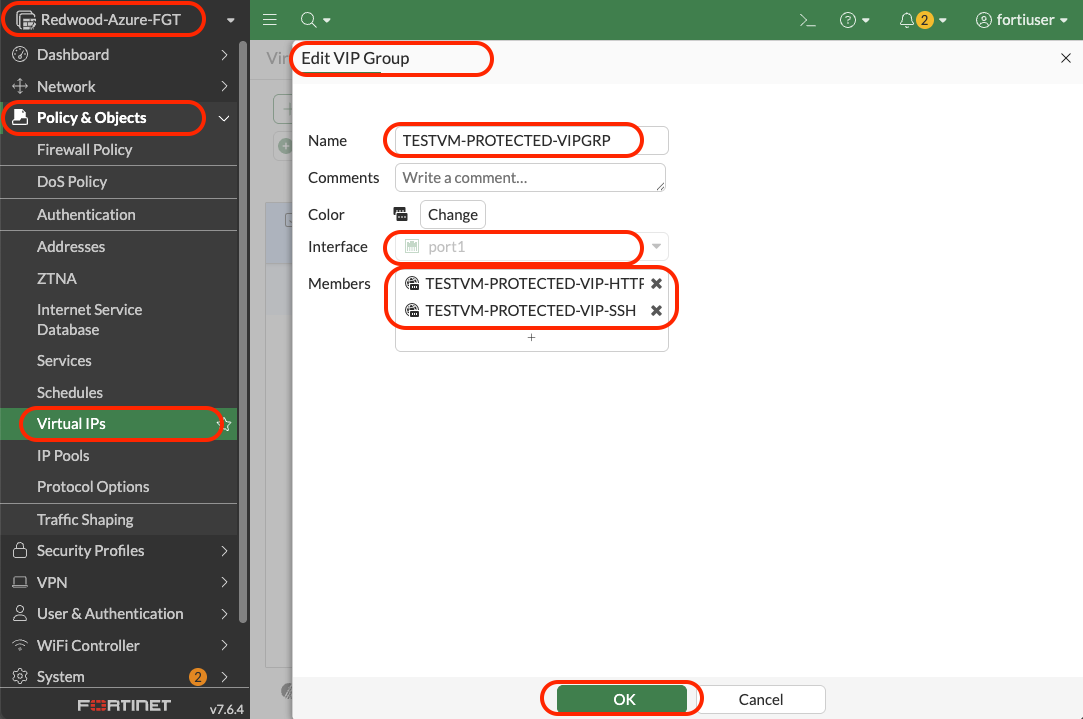
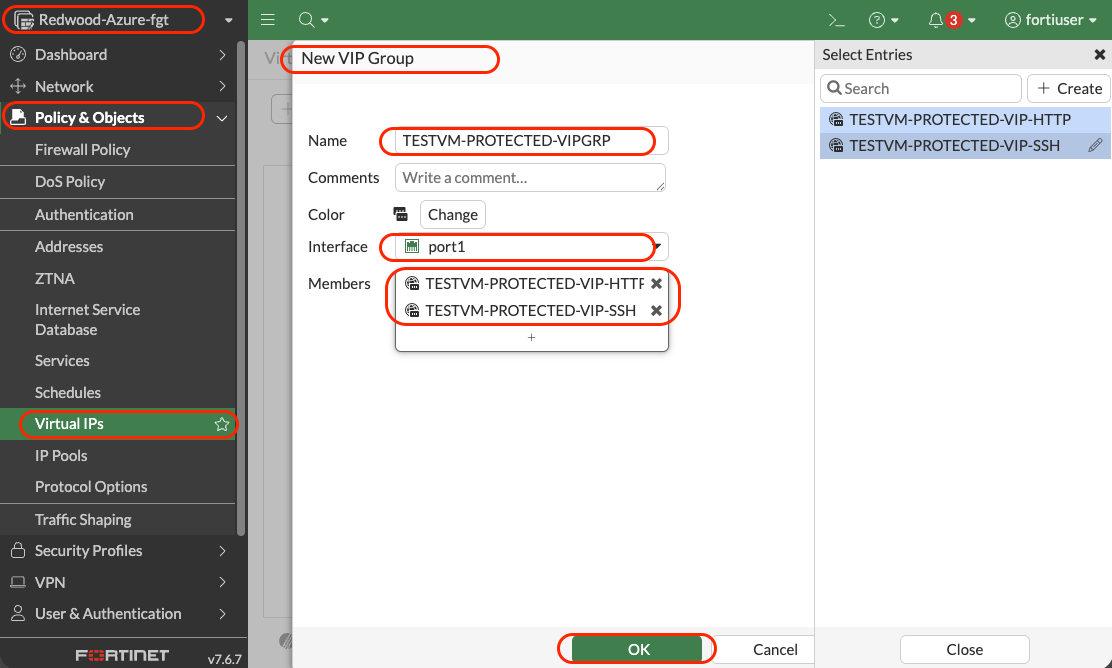
Lab 3 update

diff --git a/az-101-lab3/README.md b/az-101-lab3/README.md
@@ -119,6 +119,7 @@ We need a VM in Protected-Subnet to generate traffic and test FortiGate inspecti
    - In the **New Virtual IP** tab:
      - **Name**: `TESTVM-PROTECTED-VIP-SSH`
      - **Interface**: `port1`
+     - **Type**: `Static NAT`
      - **External IP address/range**: 0.0.0.0
      - Map to
        - **IPv4 address/range**: Select the `TESTVM-PROTECTED` from the Suggestions
@@ -136,6 +137,7 @@ We need a VM in Protected-Subnet to generate traffic and test FortiGate inspecti
    - In the **New Virtual IP** tab:
      - **Name**: `TESTVM-PROTECTED-VIP-HTTP`
      - **Interface**: `port1`
+     - **Type**: `Static NAT`
      - **External IP address/range**: 0.0.0.0
      - Map to
        - **IPv4 address/range**: Select the `TESTVM-PROTECTED` from the Suggestions
@@ -174,6 +176,7 @@ We need a VM in Protected-Subnet to generate traffic and test FortiGate inspecti
      - **Source**: `all`
      - **Destination**: `TESTVM-PROTECTED-VIPGRP`
      - **Service**: `SSH` and `HTTP`
+     - **NAT**: `Enabled`
 
      ![step2.3.1.a-screenshot](images/step2.3.1.a-creenshot.png)
 
@@ -190,6 +193,8 @@ We need a VM in Protected-Subnet to generate traffic and test FortiGate inspecti
 ### 3.1 Connect to the `TestVM-Protected` VM using SSH using the VIP you created
 
 1. Open the Azure Cloud Shell
+
+   ![step3.1.1-screenshot](images/step3.1.1-screenshot.png)
 
 2. SSH into the `TestVM-Protected`
 